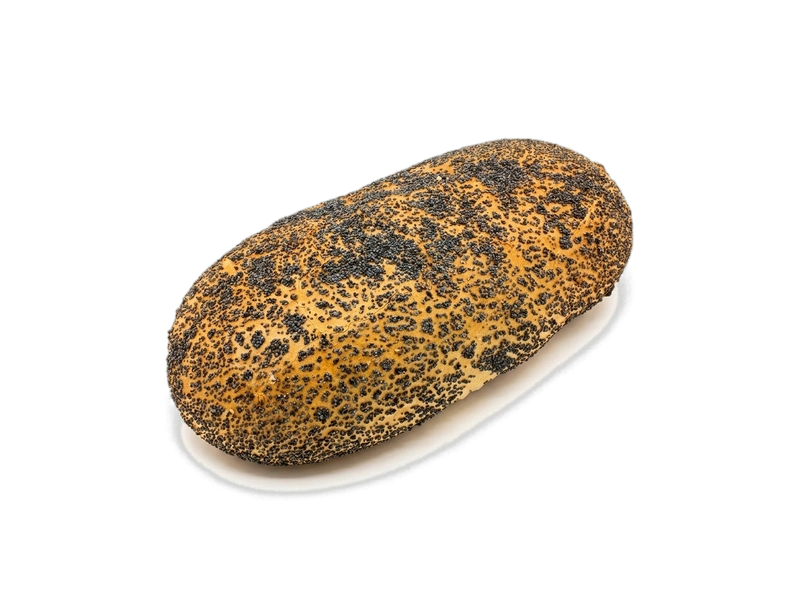
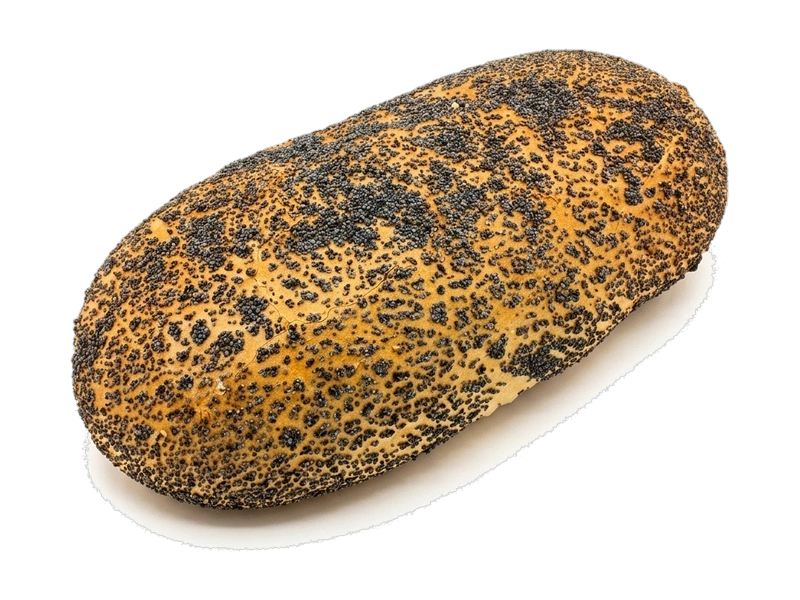
fix(products): fix white spot artifacts on sesame and poppy seeds using outer BFS floodfill background isolation

diff --git a/src/js/products-data.js b/src/js/products-data.js
@@ -23,8 +23,8 @@ const kategorieProduktow = [
             { id: "chleb_zakwas", name: "Chleb na naturalnym zakwasie", weight: "600g", packaging: "Skrzynka 12 szt. / Paleta: 48 skrzynek", image: "img/chleb_zakwas.webp", shelfLife: "72h", cert: "IFS Food, BRC", isFresh: true, isFrozen: false, description: "Pieczywo mieszane pszenno – żytnie na naturalnym zakwasie żytnim produkowane metodą wielofazową." },
             { id: "chleb_zytni_kapusta", name: "Chleb żytni z kiszoną kapustą", weight: "400g", packaging: "Skrzynka 12 szt.", image: "img/chleb_zytni_kapusta.webp", shelfLife: "9 miesięcy (Mrożony)", cert: "IFS Food, BRC", isFresh: false, isFrozen: true, description: "Pieczywo żytnie z dodatkiem kapusty kiszonej." },
             { id: "chleb_zytni_chrzan", name: "Chleb żytni z chrzanem", weight: "400g", packaging: "Skrzynka 12 szt.", image: "img/chleb_zytni_chrzan.webp", shelfLife: "9 miesięcy (Mrożony)", cert: "IFS Food, BRC", isFresh: false, isFrozen: true, description: "Pieczywo żytnie z dodatkiem chrzanu tartego i majeranku." },
-            { id: "chleb_zytni_papryka", name: "Chleb żytni z papryką", weight: "380g", packaging: "Skrzynka 15 szt.", image: "img/chleb_zytni_papryka.webp?v=2", shelfLife: "9 miesięcy (Mrożony)", cert: "IFS Food, BRC", isFresh: false, isFrozen: true, description: "Pieczywo pszenno-żytnie z pieczoną papryką, posypane mieszanką ziaren sezamu oraz sezamu czarnego." },
-            { id: "chleb_baltonowski_z_makiem", name: "Chleb Baltonowski z makiem", weight: "500g", packaging: "Skrzynka 12 szt.", image: "img/chleb_baltonowski_z_makiem.webp?v=2", shelfLife: "72h (Świeży)", cert: "IFS Food, BRC", isFresh: true, isFrozen: false, description: "Pieczywo pszenno-żytnie. Bochenki o kształcie podłużnym, barwa złocisto-brązowa. Posypane makiem." },
+            { id: "chleb_zytni_papryka", name: "Chleb żytni z papryką", weight: "380g", packaging: "Skrzynka 15 szt.", image: "img/chleb_zytni_papryka.webp?v=4", shelfLife: "9 miesięcy (Mrożony)", cert: "IFS Food, BRC", isFresh: false, isFrozen: true, description: "Pieczywo pszenno-żytnie z pieczoną papryką, posypane mieszanką ziaren sezamu oraz sezamu czarnego." },
+            { id: "chleb_baltonowski_z_makiem", name: "Chleb Baltonowski z makiem", weight: "500g", packaging: "Skrzynka 12 szt.", image: "img/chleb_baltonowski_z_makiem.webp?v=4", shelfLife: "72h (Świeży)", cert: "IFS Food, BRC", isFresh: true, isFrozen: false, description: "Pieczywo pszenno-żytnie. Bochenki o kształcie podłużnym, barwa złocisto-brązowa. Posypane makiem." },
             { id: "chleb_2ab", name: "Chleb 2AB", weight: "300g", packaging: "Karton 10 szt.", image: "img/chleb_2ab.webp", shelfLife: "9 miesięcy (Mrożony)", cert: "IFS Food, BRC, Certyfikat 2AB", isFresh: false, isFrozen: true, description: "Pieczywo pszenne wypiekane z mąki 2AB (mąka pszenna z pradawnych odmian zbóż) na drożdżach." }
         ]
     },
